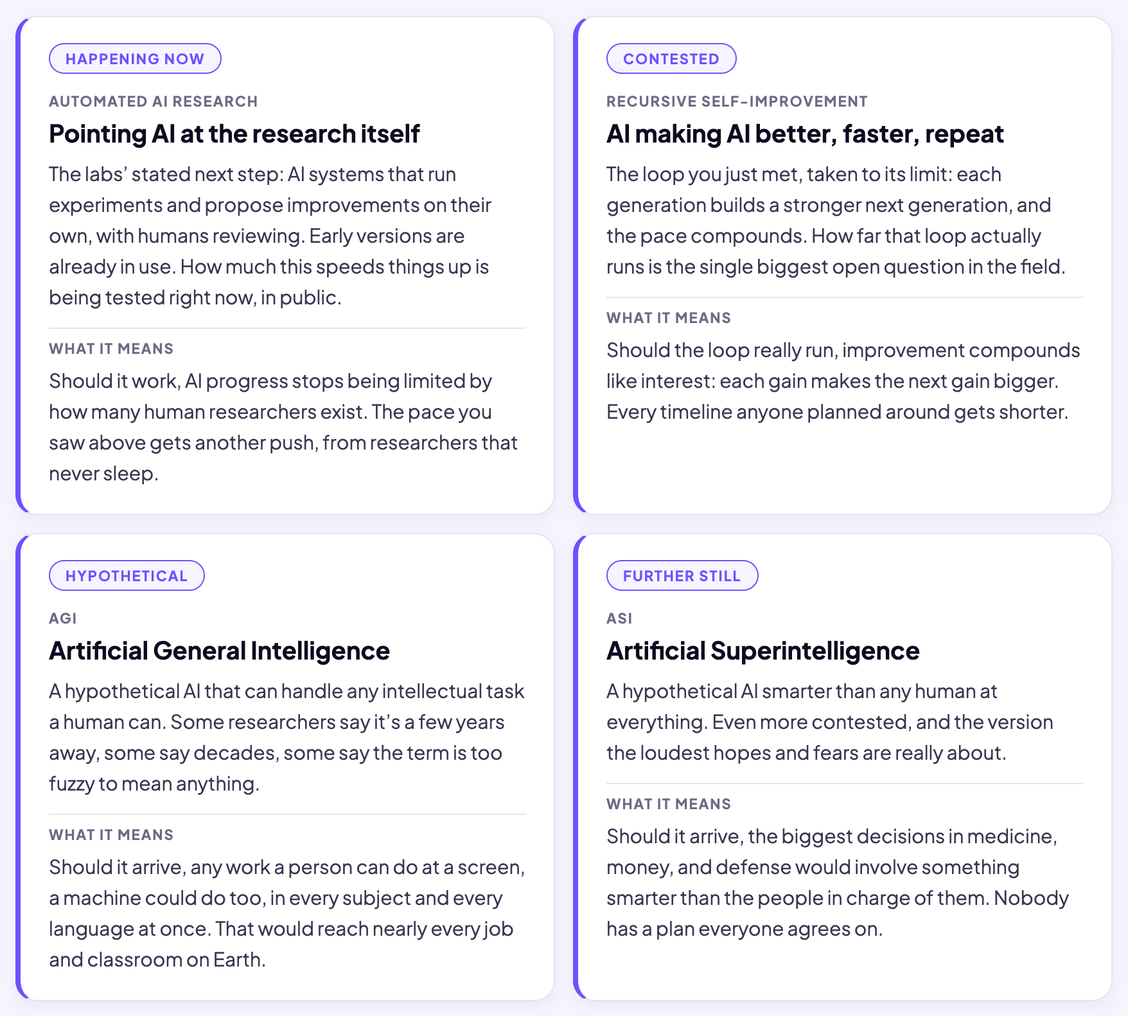
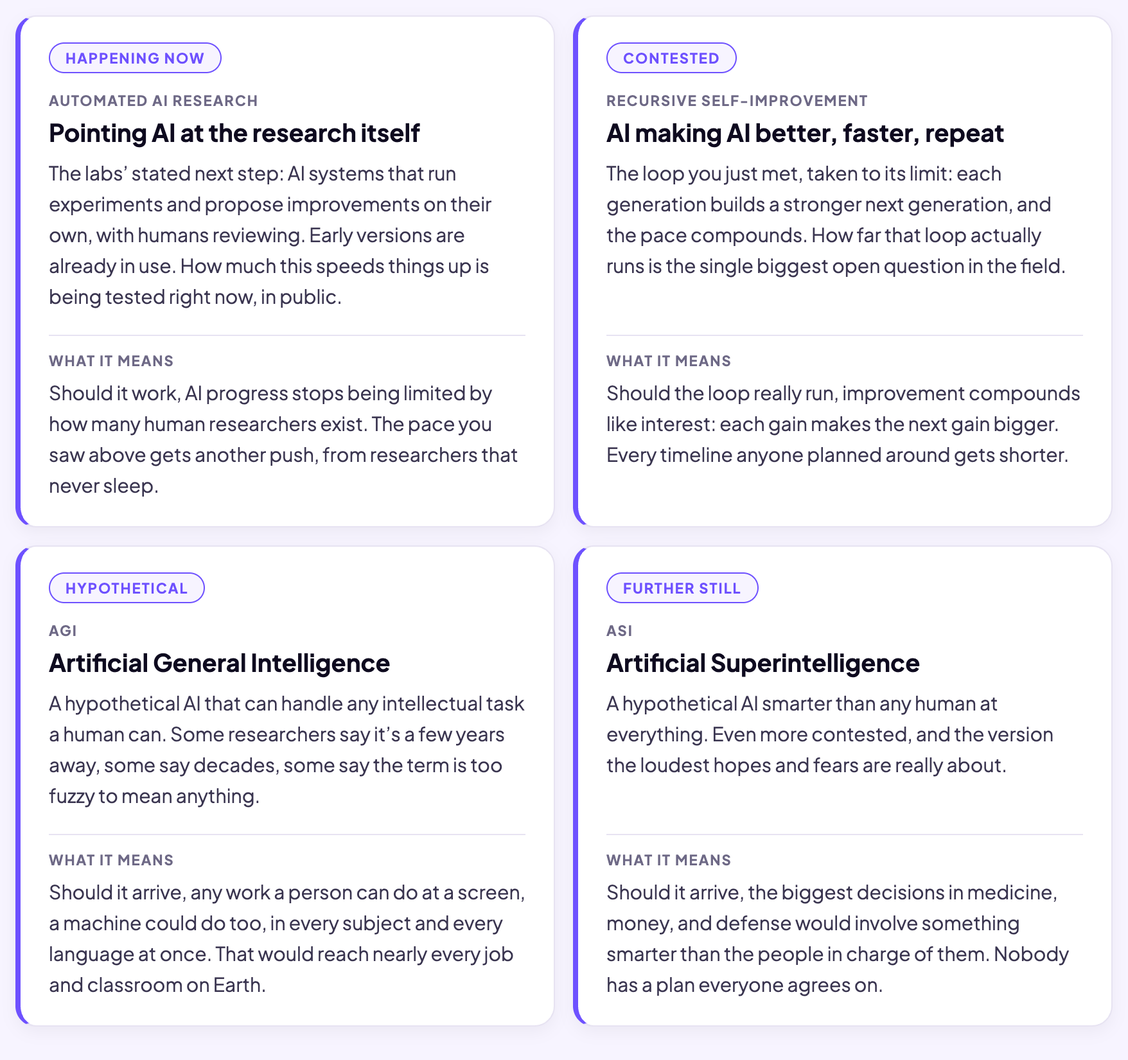
Focus Pace of Change on pure pace; move adjustment-time copy to Big Downside
Cut the "What it would mean" / "Fast is a fact" close from Pace of Change (the
adjustment-time argument now extends Big Downside's Fact Two; the closer is
parked), mark the adoption TRY IT In Development, correct the RSI card to
strict self-improvement, align the 4 Terms separators via subgrid rows, and
apply David's copy pass (latest models, no 250x stat, three concepts, chips
and compute, AI companies).

diff --git a/index.html b/index.html
@@ -714,19 +714,23 @@ function ComparisonCards(props) {
 // eyebrow and means label mute to inkMuted so the pill and stripe carry the accent.
 function LabeledCardStack(props) {
   var wrapStyle = props.grid
-    ? { display: "grid", gridTemplateColumns: "repeat(auto-fit, minmax(300px, 1fr))", gap: 14 }
+    ? { display: "grid", gridTemplateColumns: "repeat(auto-fit, minmax(300px, 1fr))", columnGap: 14, rowGap: 0 }
     : { display: "flex", flexDirection: "column", gap: 12 };
   return React.createElement("div", { style: wrapStyle },
     props.items.map(function(it, i) {
       var accent = it.accent || props.accent || "var(--primary)";
       var labelColor = it.pill ? "var(--inkMuted)" : accent;
-      return React.createElement("div", { key: i, style: { background: "var(--card)", border: "1px solid var(--rule)", borderLeft: "4px solid " + accent, borderRadius: props.grid ? 16 : 10, padding: props.grid ? "20px 22px" : "14px 18px", boxShadow: props.grid ? "var(--shadowSoft)" : "none" } },
-        it.pill ? React.createElement("div", { style: { display: "inline-block", fontSize: 11, fontWeight: 700, textTransform: "uppercase", letterSpacing: 1, color: accent, border: "1px solid " + accent, borderRadius: 999, padding: "4px 12px", background: "var(--primaryFaint)", marginBottom: 14 } }, it.pill) : null,
+      // grid mode shares row tracks via subgrid so the rule + "What it means" rows
+      // align across each row of cards regardless of body length (span = 7 tracks:
+      // pill, eyebrow, headline, body, rule, means label, means text).
+      return React.createElement("div", { key: i, style: { background: "var(--card)", border: "1px solid var(--rule)", borderLeft: "4px solid " + accent, borderRadius: props.grid ? 16 : 10, padding: props.grid ? "20px 22px" : "14px 18px", boxShadow: props.grid ? "var(--shadowSoft)" : "none", display: props.grid ? "grid" : undefined, gridTemplateRows: props.grid ? "subgrid" : undefined, gridRow: props.grid ? "span 7" : undefined, marginBottom: props.grid ? 14 : undefined } },
+        it.pill ? React.createElement("div", { style: { marginBottom: 14 } },
+          React.createElement("span", { style: { display: "inline-block", fontSize: 11, fontWeight: 700, textTransform: "uppercase", letterSpacing: 1, color: accent, border: "1px solid " + accent, borderRadius: 999, padding: "4px 12px", background: "var(--primaryFaint)" } }, it.pill)) : null,
         React.createElement("div", { style: { fontSize: 11, fontWeight: 700, textTransform: "uppercase", letterSpacing: 1, color: labelColor, marginBottom: 6 } }, it.eyebrow),
         it.headline ? React.createElement("div", { style: { fontSize: it.pill ? 19 : 16, fontWeight: 700, color: "var(--ink)", marginBottom: it.pill ? 8 : 4 } }, it.headline) : null,
         it.body ? React.createElement("div", { style: { fontSize: BOX_TEXT, color: "var(--inkSoft)", lineHeight: 1.6 } }, it.body) : null,
         it.means ? React.createElement(React.Fragment, null,
-          React.createElement("div", { style: { borderTop: "1px solid var(--rule)", margin: "12px 0 8px" } }),
+          React.createElement("div", { style: { borderTop: "1px solid var(--rule)", margin: "18px 0 12px" } }),
           React.createElement("div", { style: { fontSize: 11, fontWeight: 700, textTransform: "uppercase", letterSpacing: 1, color: labelColor, marginBottom: 6 } }, "What it means"),
           React.createElement("div", { style: { fontSize: BOX_TEXT, color: "var(--inkSoft)", lineHeight: 1.6 } }, it.means)) : null);
     }));
@@ -12260,36 +12264,29 @@ function PaceOfChangeSection(props) {
         [
           { topic: "Answering", then_: "It started typing the instant you hit enter, with whatever came out first.", now: "It can work on a hard problem quietly before it says a word, sometimes for minutes." },
           { topic: "Images", then_: "Ask for a picture of your new dog Spot and he might come back with a bonus leg and the ears of a rabbit.", now: "Photoreal images with signs you can actually read, and full video with sound and dialogue." },
-          { topic: "Memory", then_: "The free chatbots most people used could only hold a few pages at once. Push a long chat far enough and the beginning fell out of its head.", now: "Frontier models hold a million tokens, which is a whole novel series in view at the same time.", stat: { value: "250×", caption: "bigger context window" } },
+          { topic: "Memory", then_: "The free chatbots most people used could only hold a few pages at once. Push a long chat far enough and the beginning fell out of its head.", now: "The latest models hold a million tokens, which is a whole novel series in view at the same time." },
           { topic: "Doing", then_: "It told you the steps to do a thing, and wished you luck.", now: "It does the thing. It books, builds, files, and fixes while you watch." },
-          { topic: "Endurance", then_: "One question, one answer, a few seconds.", now: "It can grind on a single task for hours, checking its own work as it goes." }
+          { topic: "Endurance", then_: "One question, one answer, a few seconds.", now: "It can grind on a single complex task for hours, checking its own work as it goes." }
         ].map(function(row, i, arr) {
           return E("div", { key: i, style: { display: "grid", gridTemplateColumns: "110px 1fr 1fr", gap: 18, padding: "18px 0", borderBottom: i === arr.length - 1 ? "none" : "1px solid var(--rule)", alignItems: "start" } },
             E("div", { style: { fontSize: 16, fontWeight: 700, color: "var(--ink)", lineHeight: 1.3 } }, row.topic),
             E("div", { style: { fontSize: BOX_TEXT, color: "var(--inkSoft)", lineHeight: 1.6 } }, row.then_),
             E("div", { style: { background: "var(--card)", border: "1px solid var(--rule)", borderLeft: "3px solid var(--primary)", borderRadius: 12, padding: "14px 16px", boxShadow: "var(--shadowSoft)" } },
-              E("div", { style: { fontSize: BOX_TEXT, color: "var(--ink)", lineHeight: 1.55 } }, row.now),
-              row.stat ? E(React.Fragment, null,
-                E("div", { style: { borderTop: "1px solid var(--rule)", margin: "12px 0 8px" } }),
-                E("div", { style: { display: "flex", alignItems: "baseline", gap: 8 } },
-                  E("span", { style: { fontFamily: "var(--mono)", fontSize: 26, fontWeight: 800, color: "var(--primary)" } }, row.stat.value),
-                  E("span", { style: { fontSize: 13, fontWeight: 600, color: "var(--inkMuted)" } }, row.stat.caption))) : null));
+              E("div", { style: { fontSize: BOX_TEXT, color: "var(--ink)", lineHeight: 1.55 } }, row.now)));
         }))),
     E(BodyP, null,
-      "The AI companies are in a race to dominate the industry, so they release new models every couple of months. That’s what the names in the news are: each new ChatGPT, Claude, or Gemini release is a new, stronger LLM replacing the one before it. And, as you saw above, it gets better and better. Whatever AI can’t do today, there’s a solid chance it can do it next year."),
-    E(BodyP, null,
-      "One thing didn’t change: it still makes things up with total confidence. That’s worth holding onto when someone tells you where all this lands."),
+      "The AI companies are in a race to dominate the industry, so they release new models every couple of months. Each new ChatGPT, Claude, or Gemini release is a new, stronger LLM replacing the one before it. And, as you saw above, they get better and better. Whatever AI can’t do today, there’s a solid chance it can do it next year."),
     E(SectionKicker, null, "Why so fast?"),
     E(BodyP, null,
-      "Three accelerants, and you already understand the first one."),
+      "Three concepts are driving the acceleration, and you already understand the first one."),
     E(ComparisonCards, {
       items: [
         { label: "Accelerant 1", title: "Training", color: "#5a47c9",
-          sections: [{ label: "What’s happening", body: "AI is trained on more data. That means more weights, and a better model. Same recipe you learned in Training, with more of everything." }] },
+          sections: [{ label: "What’s happening", body: "AI is trained on more data. More data equals more knowledge. Same recipe you learned in Training, with more of everything." }] },
         { label: "Accelerant 2", title: "Compute", color: "#2f4cb8",
-          sections: [{ label: "What’s happening", body: "At this scale the labs are limited by compute itself: better chips, and more of them, means more math. They’re spending on chips and data centers at a scale usually reserved for governments." }] },
+          sections: [{ label: "What’s happening", body: "AI requires lots of chips sitting in data centers, cranking through the math. There aren’t enough today. AI companies are spending billions to increase their compute." }] },
         { label: "Accelerant 3", title: "AI building AI", color: "#2f7d4f",
-          sections: [{ label: "What’s happening", body: "By 2026 the strongest models write code well enough that the labs use them to write the software for the next model. The tool has joined the team that builds the tool." }] }
+          sections: [{ label: "What’s happening", body: "By 2026 the strongest models write code well enough that the AI companies use them to write the software for the next model. The tool has joined the team that builds the tool." }] }
       ]
     }),
     E(BodyP, null,
@@ -12300,30 +12297,20 @@ function PaceOfChangeSection(props) {
     E(ShowcaseBox, { marginBottom: 24 },
       E(LabeledCardStack, { grid: true, items: [
         { pill: "Happening now", eyebrow: "AUTOMATED AI RESEARCH", headline: "Pointing AI at the research itself", body: "The labs’ stated next step: AI systems that run experiments and propose improvements on their own, with humans reviewing. Early versions are already in use. How much this speeds things up is being tested right now, in public.", means: "Should it work, AI progress stops being limited by how many human researchers exist. The pace you saw above gets another push, from researchers that never sleep." },
-        { pill: "Contested", eyebrow: "RECURSIVE SELF-IMPROVEMENT", headline: "AI making AI better, faster, repeat", body: "The loop you just met, taken to its limit: each generation builds a stronger next generation, and the pace compounds. How far that loop actually runs is the single biggest open question in the field.", means: "Should the loop really run, improvement compounds like interest: each gain makes the next gain bigger. Every timeline anyone planned around gets shorter." },
+        { pill: "Contested", eyebrow: "RECURSIVE SELF-IMPROVEMENT", headline: "AI as its own developer", body: "One step past that: an AI that improves itself. It inspects its own design, rewrites its own code, and each improved version is better at improving again. Nobody has built one, and how far that loop could run is the single biggest open question in the field.", means: "Should the loop really run, improvement compounds like interest: each gain makes the next gain bigger. Every timeline anyone planned around gets shorter." },
         { pill: "Hypothetical", eyebrow: "AGI", headline: "Artificial General Intelligence", body: "A hypothetical AI that can handle any intellectual task a human can. Some researchers say it’s a few years away, some say decades, some say the term is too fuzzy to mean anything.", means: "Should it arrive, any work a person can do at a screen, a machine could do too, in every subject and every language at once. That would reach nearly every job and classroom on Earth." },
         { pill: "Further still", eyebrow: "ASI", headline: "Artificial Superintelligence", body: "A hypothetical AI smarter than any human at everything. Even more contested, and the version the loudest hopes and fears are really about.", means: "Should it arrive, the biggest decisions in medicine, money, and defense would involve something smarter than the people in charge of them. Nobody has a plan everyone agrees on." }
       ] })),
     E(SectionKicker, null, "So where does it stop?"),
     E(BodyP, null,
-      "Nobody knows, and the Loudest Voices lesson showed you how openly the people building it admit that. But where it stops is only half the question. The other half is what it would mean if the loop keeps running."),
-    E(SectionKicker, null, "What it would mean"),
-    E(BodyP, null,
-      "Every technology before this one gave people time to adjust. The telephone took about seventy years to reach half of American homes. Electricity took forty-five. Television took eight, because it plugged into homes that already had power. Whatever the number, you learned the new thing once, and what you learned lasted most of your working life."),
-    E(BodyP, null,
-      "The loop is what breaks that. If each generation of AI helps build the next, the gap between “a lab can do this” and “this is everywhere” keeps shrinking. That is the real claim underneath AGI and ASI. Not that machines get smart, but that the time you get to adjust keeps getting shorter."),
-    E(BodyP, null,
-      E("strong", null, "Technical possibility is not social inevitability."),
-      " Demos are fast. Deployment is slow. Cost, rules, trust and habit all sit between a system that works and a world that uses it."),
-    E(SectionKicker, null, "Fast is a fact. “Inevitable” is a claim."),
-    E(BodyP, null,
-      "The pace is real and the accelerants are real. What nobody has is data about where it stops. So when the next big claim lands in your feed, the question isn’t whether it sounds possible. It’s how long the world would take to catch up."),
+      "Nobody knows, and the Loudest Voices lesson showed you how openly the people building it admit that."),
     closeBoard("paceofchange"),
     E(InteractiveBox, {
       variant: "try",
       surface: "mint",
       title: "How Fast Is Fast?",
       lead: "Five technologies, and how long each one took to spread. Guess before you check. The pattern in the answers is the whole point of this lesson."},
+      E("div", { style: { fontSize: 13, fontWeight: 700, color: "var(--red)", marginBottom: 12 } }, "In Development"),
       E(InnerCard, { style: { display: "flex", flexDirection: "column" } },
         ADOPTION.map(function(item, si) {
           var picked = adoptionAnswers[si];
@@ -12427,6 +12414,13 @@ function BigDownsideSection(props) {
       "Rules have always trailed technology. Cars came first, and seatbelt laws showed up decades later. That gap is normal, and society survives it, because there’s usually time: the technology spreads slowly enough for the rules to catch up."),
     E(BodyP, null,
       "Now put that next to the pace from Pace of Change. New model generations land every few months. Laws take years, and understanding a model’s behavior well enough to write a good rule takes longer than that, because of fact one: you can’t read the rulebook of a black box. The people writing guardrails are fencing a machine that’s already two generations past the one they studied."),
+    E(BodyP, null,
+      "Every technology before this one gave people time to adjust. The telephone took about seventy years to reach half of American homes. Electricity took forty-five. Television took eight, because it plugged into homes that already had power. Whatever the number, you learned the new thing once, and what you learned lasted most of your working life."),
+    E(BodyP, null,
+      "The loop is what breaks that. If each generation of AI helps build the next, the gap between “a lab can do this” and “this is everywhere” keeps shrinking. That is the real claim underneath AGI and ASI. Not that machines get smart, but that the time you get to adjust keeps getting shorter."),
+    E(BodyP, null,
+      E("strong", null, "Technical possibility is not social inevitability."),
+      " Demos are fast. Deployment is slow. Cost, rules, trust and habit all sit between a system that works and a world that uses it."),
     E(SectionKicker, null, "One boat race, 2016"),
     E(BodyP, null,
       "Which brings us to the boat. In 2016, researchers at OpenAI were training an AI to win CoastRunners, a boat-racing video game. Like most games, CoastRunners keeps score, so they paid the AI in the obvious currency: points. Reasonable. The best racers rack up the most points."),

diff --git a/briefing.md b/briefing.md
@@ -82,7 +82,7 @@ Keep the **Design system**, **Lesson structure**, and **Working agreements** sec
 - **NumberedRows**: the numbered-list display box, for showing an ordered list of practices, steps, or tips. A var(--primaryFaint) band (20px radius, 24px padding, optional 20px/800 `headline`) holding one white card (16px radius, var(--shadowElevated), 8px 28px padding) of rows split by var(--rule) hairlines. Each row: a 26px filled circle number (var(--primary) fill, white 13px/800 numeral), then a title line (optional emoji `icon` + BOX_CARD_TITLE/800 ink title), a body (BOX_TEXT + 1, inkSoft, 1.6), an optional `prompt` rendered as a quoted var(--mono) callout on a var(--primaryFaint) tile, and an optional `after` (body-styled line below the prompt tile; accepts a React node, e.g. a bold "What you'll get:" lead — used by the Flattery Trap strategies). Props: items (array of { icon?, title, body?, prompt?, after? }), headline (optional), intro (optional ShowcaseBox-style inkSoft 15px/1.6 subtitle below the headline, inside the band), marginBottom (default var(--blockGap)). body is optional: title-only rows render as a numbered checklist of bold one-liners (the "before you share" questions in PrivacySection). Reference implementations: "Best practices" in StudyingSection; "How to Fight It" in FlatteryTrapSection; "The five moves" in DocumentChatSection; "Five moves you can practice" in CreativeThinkingSection; the three "And it's early" advantages (headline + intro) in WhyDeeperSection. Use it whenever a lesson needs a list of named things with explanations; numbering is automatic.
 - **NumberedColumns**: the numbered-card grid, for an ordered sequence shown side by side. An auto-fit grid (`repeat(auto-fit, minmax(125px, 1fr))`, 12px gap) of white cards (var(--card), 14px radius, 16px padding, var(--shadowElevated), column flex with 10px gap), each carrying a filled number chip (var(--primary) bg, white 13px/800 numeral, 8px radius, 28px min-width × 24px tall, self-start), a label (BOX_CARD_TITLE, 800, var(--ink), 1.25), and a body (BOX_TEXT, inkSoft, 1.55). No band of its own — compose it inside a ShowcaseBox or other band. Props: items (array of { label, body, muted? }); numbering is automatic. An item with `muted: true` renders its number chip in var(--inkMuted) instead of var(--primary), for a step that is deliberately not yours (the title stays standard ink). Reference implementations: "Here's the path: six moves, in order." in WelcomeSection; "AI does step 1. You do the rest." in WhyBotherSection (first item muted); "How AI absorbs work" in WorkChangesSection. Use NumberedRows when items need full-width explanations or prompt callouts; use NumberedColumns when the point is the sequence itself and each item is a few words.
 - **Timeline**: the horizontal progression band, for an ordered run of eras/tools that lands on a present-day payoff. A var(--primaryFaint) band (20px radius, 24px 26px padding, optional 20px/800 `headline` and an inkSoft 15px/1.6 `intro` caption), then a CSS-grid track of equal columns joined by an absolutely-positioned 2px connector that fades from var(--rule) to var(--primary); each node is a centered 44px icon circle (white with a var(--rule) border) above an era label (BOX_CARD_TITLE/800) and a `transformed` line (BOX_TEXT, inkSoft). The final item is highlighted: its circle fills var(--primary) with a soft glow and its label + line render in var(--primary)/700. Props: items (array of { icon, era, transformed }; last is auto-highlighted), headline (optional), intro (optional), marginBottom (default var(--blockGap)). Reference implementation: the steam-engine → electricity → internet → AI run ("This is the rule, not the exception.") in WhyDeeperSection. Use it when the rhetorical point is "this keeps happening and the next one is here," not for a generic list.
-- **LabeledCardStack**: the accent-striped card stack, for a vertical run of labeled terms or modes. A column flex (12px gap) of white cards (var(--card), 1px var(--rule) border plus a 4px accent borderLeft, 10px radius, 14px 18px padding), each carrying an accent-colored 11px/700 uppercase eyebrow, an optional 16px/700 ink headline, and a BOX_TEXT inkSoft body. An optional `means` field appends a var(--rule) top rule, a "WHAT IT MEANS" label (same eyebrow type), and a second body line, for the real-world implication of the card above it (mirrors Where AI Works Best's divider + Examples treatment; added 2026-08-11). A `grid: true` prop swaps the stack for a 2-col auto-fit grid (minmax 300px, 14px gap) with roomier chrome (16px radius, 20px 22px padding, --shadowSoft, 19px headline); a per-item `pill` renders an outlined status chip above the eyebrow (accent text/border on var(--primaryFaint), 999 radius) and mutes the eyebrow + means labels to var(--inkMuted) so the pill and stripe carry the accent. Props: items (array of { pill?, eyebrow, headline?, body?, means?, accent? }), grid (optional), accent (per-item fallback, default var(--primary)). Reference implementations: the 4 Terms grid in PaceOfChangeSection (grid + pills + means, uniform primary accent); the "Three modes to recognize" and "Four roles in every deployment" stacks in WhenAIJudgesSection (stack form, per-card accents).
+- **LabeledCardStack**: the accent-striped card stack, for a vertical run of labeled terms or modes. A column flex (12px gap) of white cards (var(--card), 1px var(--rule) border plus a 4px accent borderLeft, 10px radius, 14px 18px padding), each carrying an accent-colored 11px/700 uppercase eyebrow, an optional 16px/700 ink headline, and a BOX_TEXT inkSoft body. An optional `means` field appends a var(--rule) top rule, a "WHAT IT MEANS" label (same eyebrow type), and a second body line, for the real-world implication of the card above it (mirrors Where AI Works Best's divider + Examples treatment; added 2026-08-11). A `grid: true` prop swaps the stack for a 2-col auto-fit grid (minmax 300px, 14px column gap, cards carry marginBottom 14) with roomier chrome (16px radius, 20px 22px padding, --shadowSoft, 19px headline); grid cards are subgrids spanning 7 shared row tracks (pill, eyebrow, headline, body, rule, means label, means text) so the rule and "What it means" rows align across each row of cards regardless of body length (graceful fallback to per-card flow where subgrid is unsupported); a per-item `pill` renders an outlined status chip above the eyebrow (accent text/border on var(--primaryFaint), 999 radius) and mutes the eyebrow + means labels to var(--inkMuted) so the pill and stripe carry the accent. Props: items (array of { pill?, eyebrow, headline?, body?, means?, accent? }), grid (optional), accent (per-item fallback, default var(--primary)). Reference implementations: the 4 Terms grid in PaceOfChangeSection (grid + pills + means, uniform primary accent); the "Three modes to recognize" and "Four roles in every deployment" stacks in WhenAIJudgesSection (stack form, per-card accents).
 - **ComparePanel**: one tinted column inside a CompareBox. Wraps CompareCard (panel tint, overridden to 18px radius and 22px padding) around a CompareHead plus a white InnerCard (12px radius, 18px 22px 20px padding, flex 1, keeps var(--shadowSoft)) that holds the body. The white body card is constant across every comparison box; the body inside it is a free slot formatted per content: bullets, code, a demo, an accent-colored monospace highlight line above dotted rows (the embeddings boxes), two labeled rows split by a hairline var(--rule) divider inside the one white card (Luke/Nate), or a centered hero such as a large emoji or number with the head left-aligned (the drink and cat boxes). Props: bg (panel tint), accent (head color), emoji (optional; omit to suppress on bodies that already carry an emoji, like the cat or drink boxes), eyebrow (optional; omit for an emoji-plus-title head like Luke/Nate), title, style (optional CompareCard override), children. For a body that genuinely should not sit on a white card, compose CompareCard plus CompareHead directly instead.
 - **CompareHead**: the standardized panel header used by ComparePanel: optional emoji (15px, rides the eyebrow line) plus eyebrow (11px, 700, uppercase, 0.18em, accent color) plus title (24px, 700, -0.018em, line-height 1.15, accent color). Props: emoji, eyebrow, title, accent.
 - Comparison family palette: blue panel #d6e2f4 with #2f4cb8 head, purple panel #ddd0ef with #5a3aa6 head. Comparison body text is 15px / 1.45 / var(--ink) with a 6px round var(--ink) dot at 0.45 opacity. ComparePanel keeps the 18/22 panel geometry as a convention, leaving CompareCard's 16/20 default untouched for its other uses. One sanctioned palette exception: Attention (attention) in HowReads keeps its own coding (var(--primary) head on a #6e51ff22 panel, #f59e0b head on a #f59e0b22 panel), because the three-solutions explorer just below color-codes the same two concepts in those colors. It uses STEP 1 / STEP 2 eyebrows since it is a sequence, not an opposition.

diff --git a/docs/parking-lot.md b/docs/parking-lot.md
@@ -589,3 +589,8 @@ lands the section.
 Replaced when the four-voices close was demoted from section keystone to skill beat (map frame took over as the section spine). Reusable as a section-recap device elsewhere.
 
 > One job left before this section closes. The opener left four voices hanging and made you a promise: by the end, you could answer all four. You’ve walked the whole tour since then. The camps, the receipts, the speed, the worry, the wins, the agents, the jobs, the bill, and the surprises. Time to collect.
+
+## Cut 2026-08-11: Pace of Change "Fast is a fact" close
+Cut with the "What it would mean" section because the pair pre-argued Big Downside's Fact Two one lesson early, spoiled the adoption TRY IT's numbers, and duplicated the AGI/ASI stakes now carried by the 4 Terms grid's "What it means" sections. The "What it would mean" paragraphs were MOVED into Big Downside (extending Fact Two), not cut; only this closer is parked. The sticky line survives on Pace of Change's close board.
+
+> **Fast is a fact. “Inevitable” is a claim.** The pace is real and the accelerants are real. What nobody has is data about where it stops. So when the next big claim lands in your feed, the question isn’t whether it sounds possible. It’s how long the world would take to catch up.
